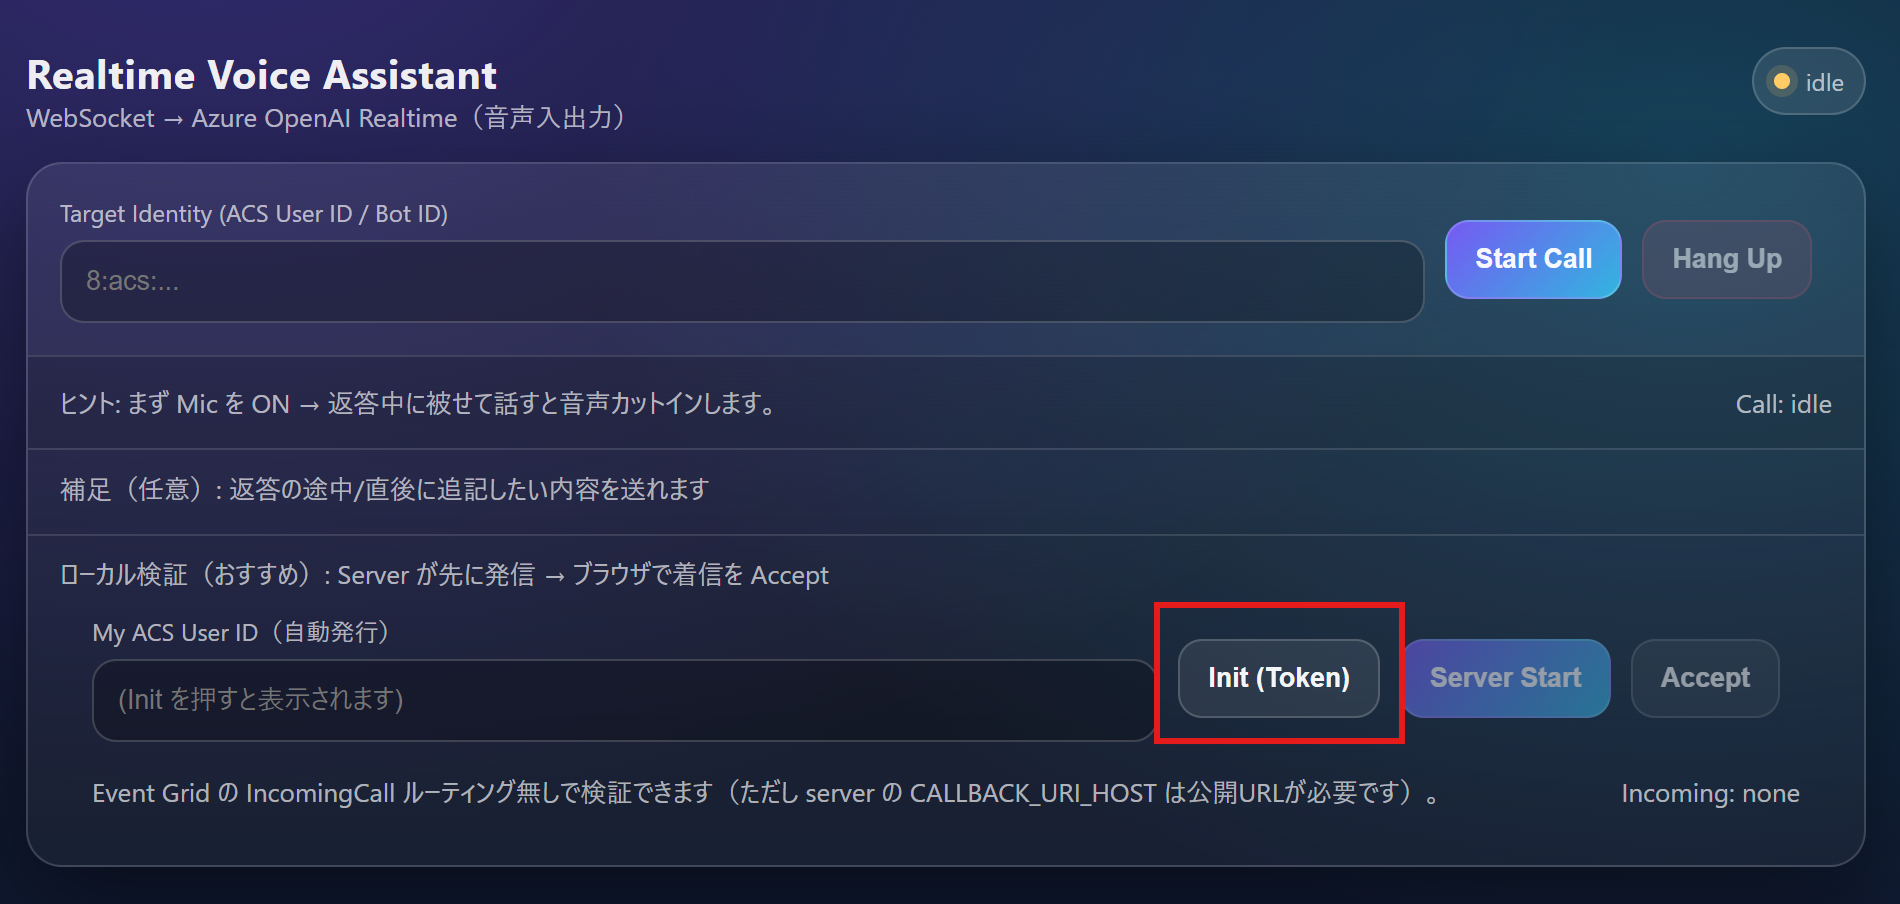
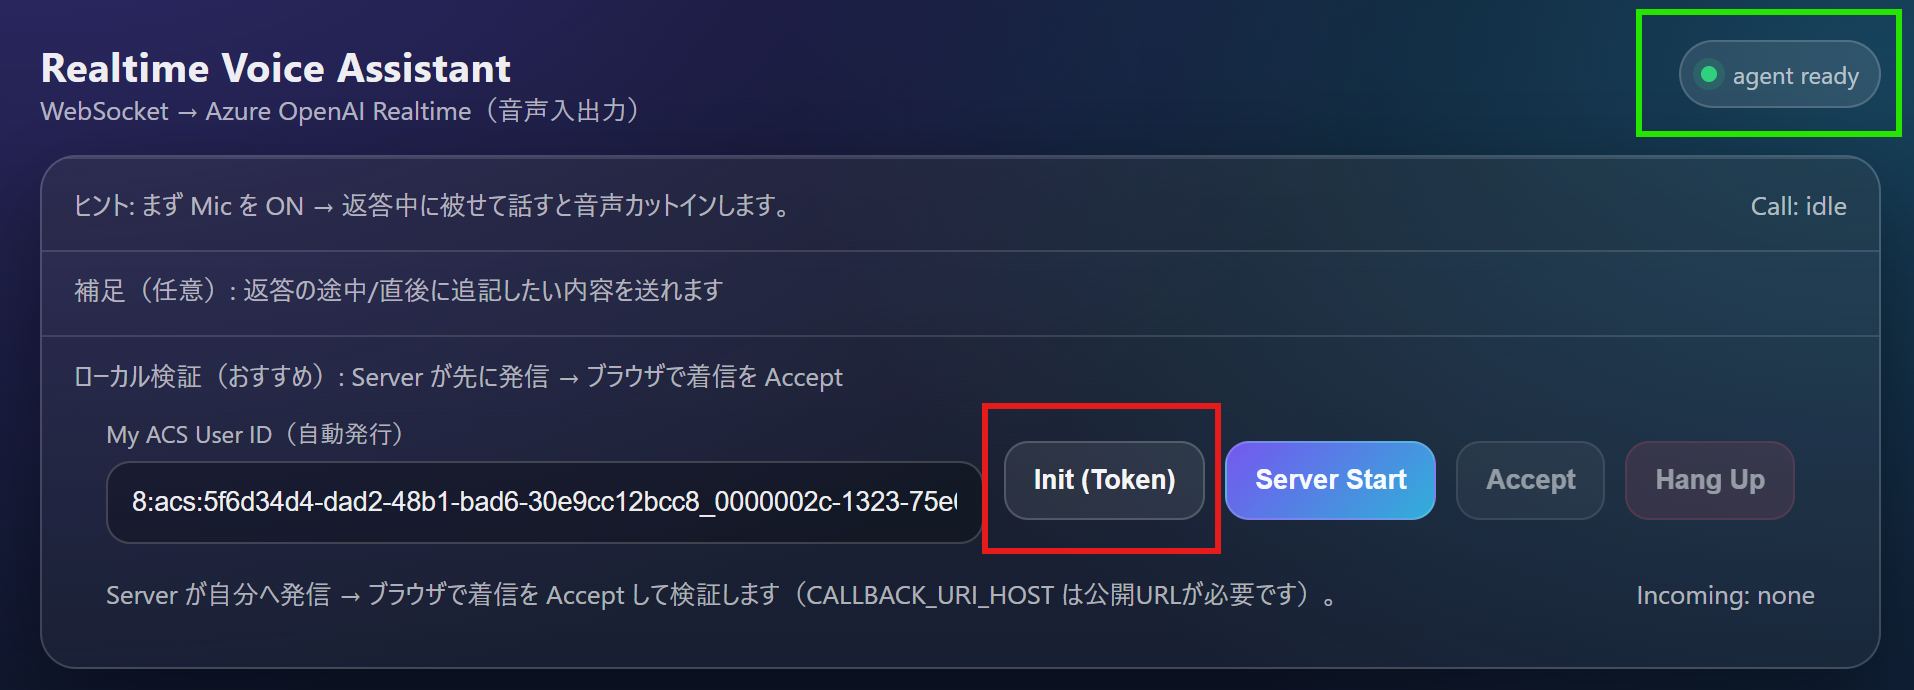
docs: update README with instructions for accessing Web UI via local IP and improve API error handling guidance feat: add apiJson function for enhanced error handling in API responses fix: improve token error messaging in initCallAgent function delete: remove unused image6.png

diff --git a/web/main.js b/web/main.js
@@ -16,6 +16,28 @@ async function apiFetch(path, options) {
   return fetch(url, options);
 }
 
+async function apiJson(path, options) {
+  const response = await apiFetch(path, options);
+  const contentType = response.headers.get("content-type") || "";
+
+  let payload;
+  if (contentType.includes("application/json")) {
+    payload = await response.json().catch(() => null);
+  } else {
+    payload = await response.text().catch(() => "");
+  }
+
+  if (!response.ok) {
+    const serverError = payload && typeof payload === "object" ? payload.error : null;
+    const serverDetails = payload && typeof payload === "object" ? payload.details : null;
+    const fallback = typeof payload === "string" && payload ? payload : `HTTP ${response.status}`;
+    const message = serverError ? String(serverError) : fallback;
+    const detailSuffix = serverDetails ? ` (${serverDetails})` : "";
+    throw new Error(`${message}${detailSuffix}`);
+  }
+  return payload;
+}
+
 const statusEl = document.getElementById("status");
 const statusDot = document.getElementById("statusDot");
 const wsStateEl = document.getElementById("wsState"); // Reusing this element for Call state
@@ -51,9 +73,7 @@ async function initCallAgent() {
 
   try {
     setStatus("fetching token...", "warn");
-    const response = await apiFetch("/api/token");
-    if (!response.ok) throw new Error("Failed to fetch token");
-    const data = await response.json();
+    const data = await apiJson("/api/token");
 
     currentUserId = data.userId;
     if (myUserIdInput) myUserIdInput.value = currentUserId;
@@ -78,7 +98,9 @@ async function initCallAgent() {
     setStatus("agent ready", "ok");
   } catch (error) {
     console.error(error);
-    setStatus("token error", "bad");
+    const msg = String(error?.message || error);
+    const isNetworkish = /Failed to fetch|NetworkError|ECONNREFUSED/i.test(msg);
+    setStatus(isNetworkish ? "token error: API unreachable (start server on :8000)" : `token error: ${msg}`, "bad");
     throw error;
   }
 }

diff --git a/README.md b/README.md
@@ -185,6 +185,46 @@ cd server && ./.venv/bin/python -m compileall -q .
 ./startup_web.sh
 ```
 
+### （補足）localhost ではなくローカル IP で Web UI を開く
+
+別PC/スマホ等から同一LAN内で Web UI を開きたい場合、`http://localhost:5173` ではなく
+`http://<このPCのIP>:5173`（例: `http://172.16.0.10:5173`）でアクセスします。
+
+ポイントは2つです。
+
+1) Vite 開発サーバーを LAN から見えるように起動する
+
+`startup_web.sh` は通常どおり使えますが、Vite は既定で localhost バインドのことがあるため、
+必要に応じて `--host 0.0.0.0` を付けて起動してください。
+
+```bash
+cd web
+npm run dev -- --host 0.0.0.0 --port 5173
+```
+
+その後、別端末のブラウザで `http://<このPCのIP>:5173` を開きます。
+
+2) `/api/token` が失敗する場合は「API の向き先」を確認する
+
+このリポジトリは Vite の proxy により、Web UI からの `/api/*` アクセスを
+同じPC上の `http://localhost:8000`（サーバー）へ中継します。
+
+- Web UI を `http://<このPCのIP>:5173` で開く場合も、基本は **`VITE_API_BASE` を未設定**にして
+  **Vite proxy 経由**で `/api/token` を呼ぶのが安全です（CORS 回避）。
+- もし `web/.env.local` 等で `VITE_API_BASE=http://localhost:8000` を設定していると、
+  **別端末からアクセスした場合に「別端末自身の localhost」** を参照してしまい `token error` になります。
+  この場合は `VITE_API_BASE` を削除するか、どうしても直指定したい場合は
+  `VITE_API_BASE=http://<このPCのIP>:8000` にしてください。
+
+注意: `VITE_API_BASE` で別オリジン（例: `http://<IP>:8000`）へ直接アクセスする場合、
+ブラウザの CORS 制約により FastAPI 側に CORS 設定が必要になることがあります。
+ローカル検証では **Vite proxy を使う（= `VITE_API_BASE` 未設定）** のが一番トラブルが少ないです。
+
+補足（重要）:
+- ここで説明している「ローカルIPで UI を開く」は、あくまで **LAN内のブラウザ表示**の話です。
+  ACS の Callback / Media Streaming は Azure から到達できる必要があるため、
+  `CALLBACK_URI_HOST` は引き続き `devtunnel/ngrok/cloudflared` などで作った **https の公開URL**を使ってください。
+
 ### 4. UI を開く
 
 - ブラウザで http://localhost:5173 を開き、一番下の【ローカル検証】をクリックする。これにより、ユーザーIDが自動生成される。右上の【idle】【Call: idle】を確認する。
@@ -193,7 +233,7 @@ cd server && ./.venv/bin/python -m compileall -q .
 
 ### 5. 初期化
 
-- 【Init (Token)】をクリックして、ACS User IDを自動発行させる。クリックすると、緑で囲んだ箇所のようにIDが現れ、【Server Start】のボタンがクリックできるようになる。右上の【agent ready】も確認しておく。
+- 【Init (Token)】をクリックして、ACS User IDを自動発行させる。クリックすると、IDが現れ、【Server Start】のボタンがクリックできるようになる。右上の【agent ready】も確認しておく。
 
 ![alt text](image2.png)
 
@@ -215,12 +255,9 @@ cd server && ./.venv/bin/python -m compileall -q .
 ### 8. 通話終了
 
 - 【Hang Up】をクリックすると、通話を終了できる。
-
-![alt text](image5.png)
-
 - 通話が終了すると、右上のステータスが【stopped】【Call: Disconnected】に変わり、右下の着信ステータスは【Incoming: none】に変わる。
 
-![alt text](image6.png)
+![alt text](image5.png)
 
 ## 4. Web UI を Docker イメージで起動 (non-root)
 
